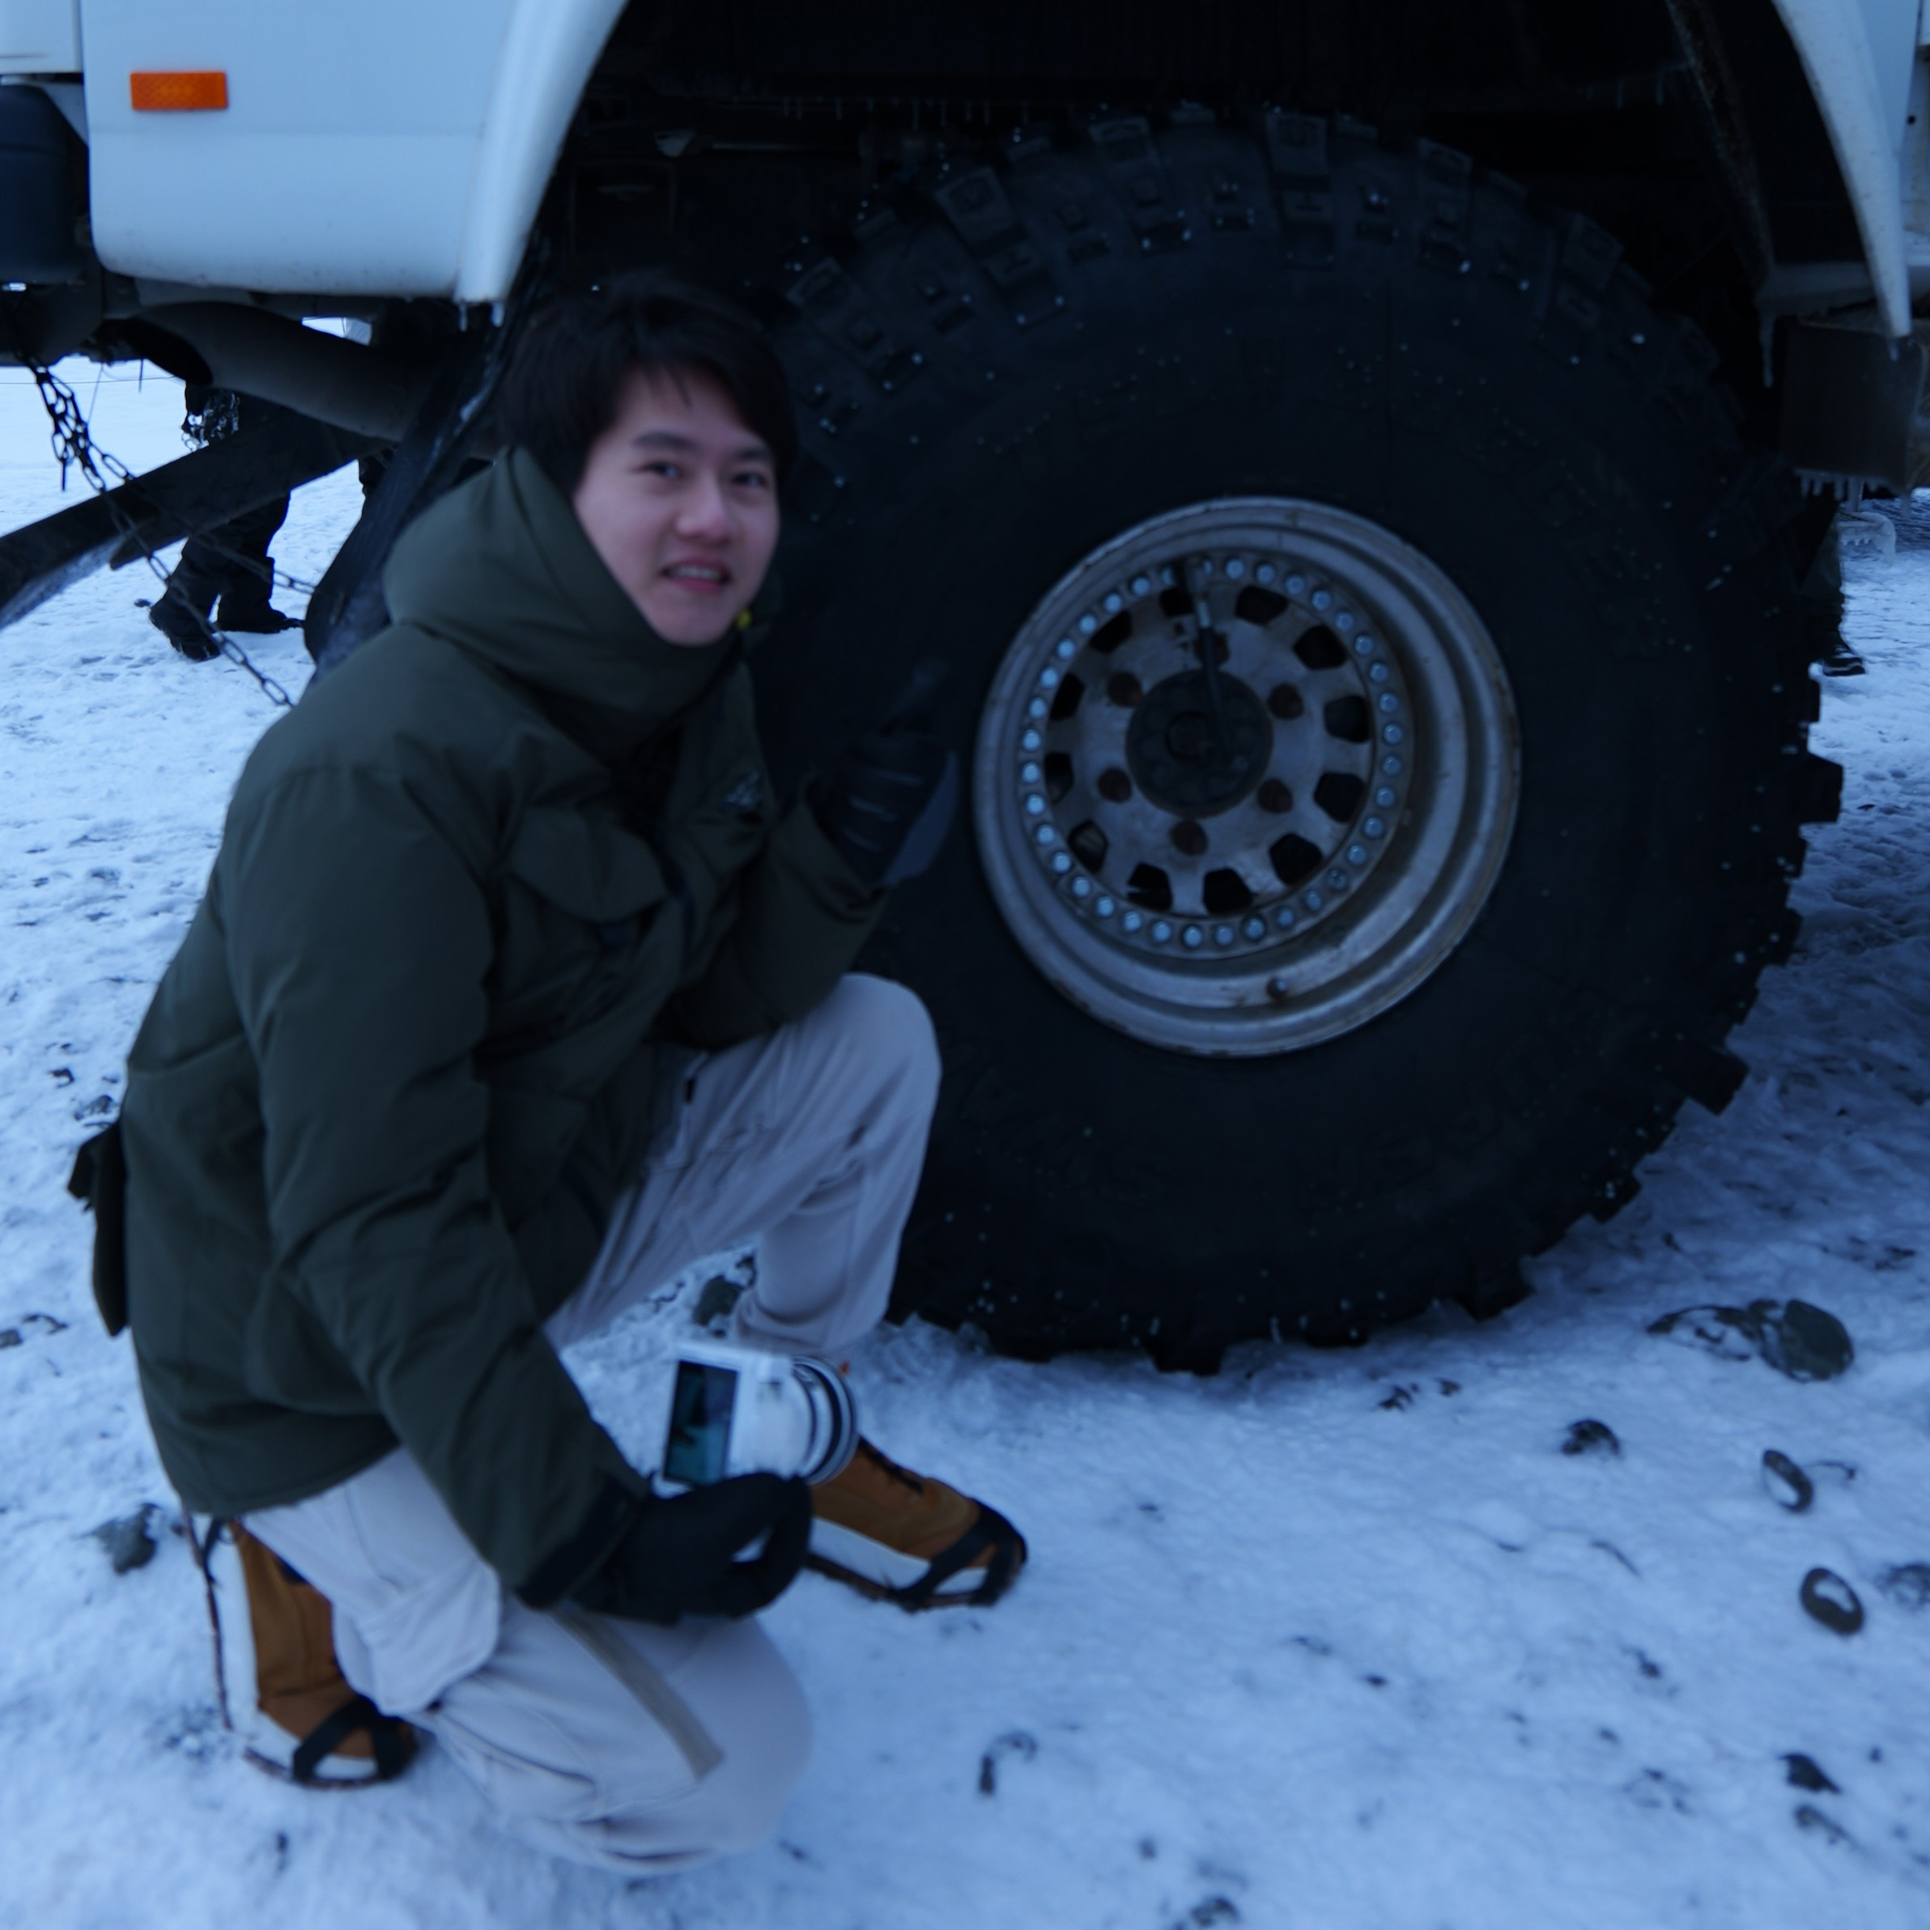
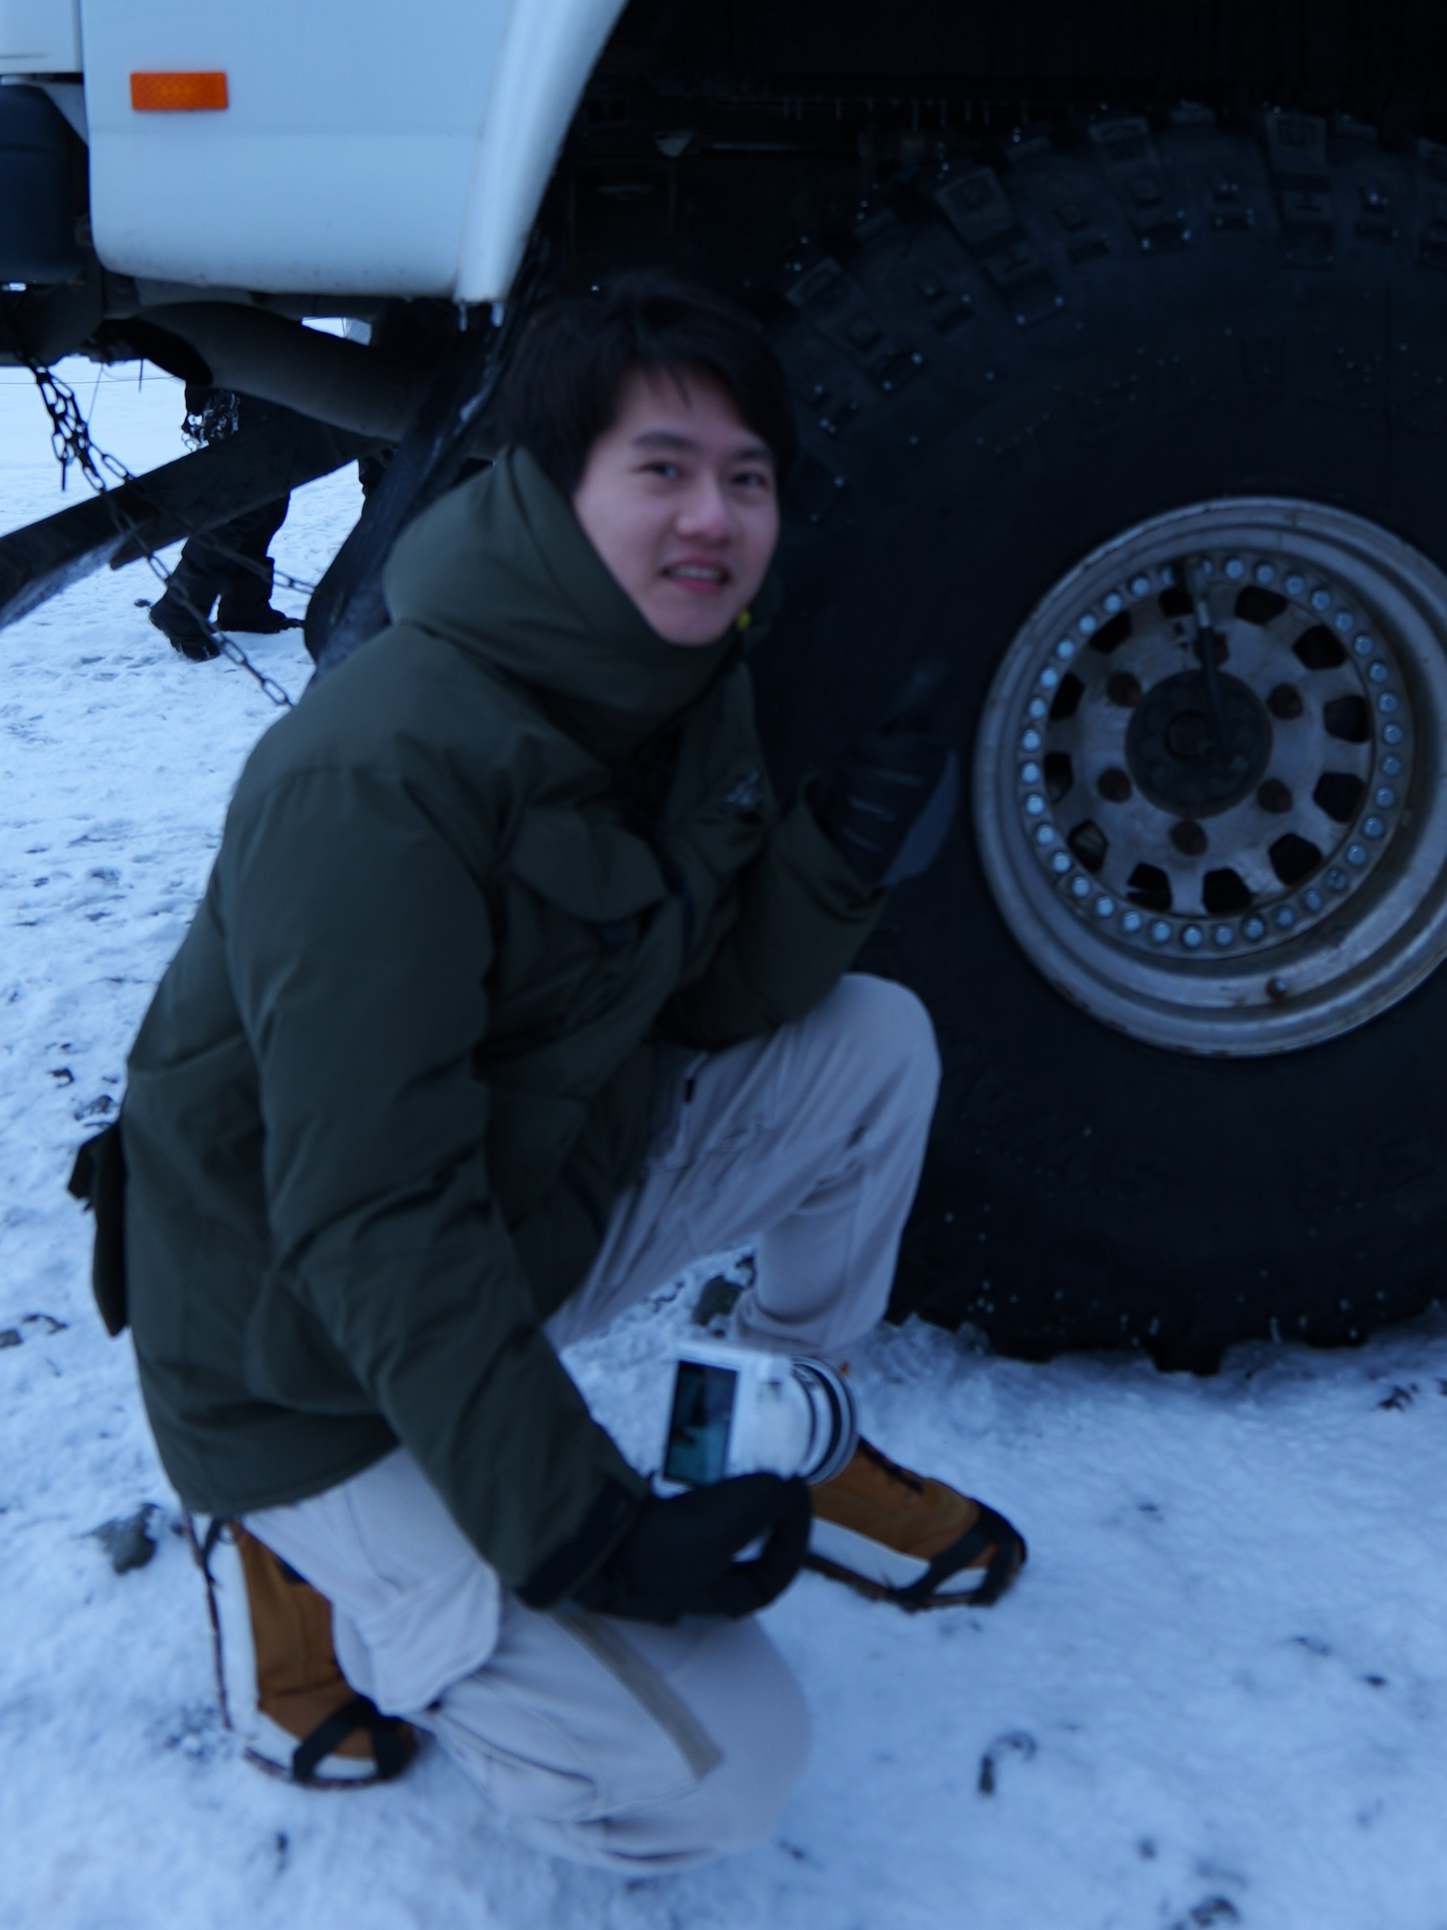
basically finished

diff --git a/index.html b/index.html
@@ -14,16 +14,18 @@
     <img src="contents/photo.jpg" alt="Junyu Fan" />
     <div class="profile-info">
       <h1>Junyu Fan</h1>
-      <p class="position">Research Intern &mdash; Shenzhen Institute for Quantum Science and Engineering</p>
+      <p class="position">Incoming Ph.D. Student &mdash; Mohamed bin Zayed University of Artificial Intelligence (MBZUAI), Fall 2026</p>
       <p class="bio">
-        I work on quantum error correction, with a focus on holographic quantum codes and tensor network methods.
-        My recent interests include measurement-free QEC schemes and fault-tolerant quantum computation.
-        I received my M.Sc. in Applied Physics (<em>cum laude</em>) from TU Delft and my B.Eng. from Fudan University.
+        I am interested in effective computational paradigms for problems that are intractable yet matter &mdash;
+        whether that means leveraging learning-based methods or quantum mechanics to make the previously impossible feasible.
+        My current research focuses on GFlowNets and hierarchical reinforcement learning.
+        I received my M.Sc. in Applied Physics (<em>cum laude</em>) from TU Delft and my B.Eng. in Nuclear Engineering from Fudan University.
       </p>
       <div class="links">
         <a href="mailto:fzhjerry@gmail.com">Email</a>
         <a href="https://scholar.google.com/citations?user=SS9oXGwAAAAJ" target="_blank">Google Scholar</a>
-        <a href="https://github.com/QML-Group/HQEC" target="_blank">GitHub</a>
+        <a href="https://github.com/FJY08" target="_blank">GitHub</a>
+        <a href="https://www.linkedin.com/in/%E5%B3%BB%E7%91%9C-junyu-fan-%E8%8C%83-82522a164/" target="_blank">LinkedIn</a>
       </div>
     </div>
   </div>
@@ -78,45 +80,26 @@
         <strong>J. Fan</strong>, Z. Jiang, Y. Qian, J. Liu, P. Xu, L. Huang, Z. He, Y. Zou, J. Li, C. Chen, et al.
         <span class="pub-title">Optical lines of Ru<sup>21+</sup> to Ru<sup>24+</sup> ions.</span>
         <span class="pub-venue"><em>Atoms</em>, 10(4):154, 2022.</span>
+        <div class="pub-links">
+          <a href="https://doi.org/10.3390/atoms10040154" target="_blank">Journal</a>
+        </div>
       </li>
       <li>
         Y. Li, Y. Wang, <strong>J. Fan</strong>, R. Si, J. Li, M. Zhang, L. Huang, J. Xiao, Y. Zou, B. Wei, et al.
         <span class="pub-title">Precise wavelength determination of the 4s<sup>2</sup>4p <sup>2</sup>P<sub>3/2</sub>&ndash;<sup>2</sup>P<sub>1/2</sub> transition in Mo<sup>11+</sup> and Ru<sup>13+</sup> ions.</span>
         <span class="pub-venue"><em>Journal of Physics B</em>, 54(23):235001, 2022.</span>
+        <div class="pub-links">
+          <a href="https://doi.org/10.1088/1361-6455/ac43f4" target="_blank">Journal</a>
+        </div>
       </li>
     </ol>
   </section>
 
-  <!-- Research -->
+
+  <!-- Service -->
   <section>
-    <h2>Research Experience</h2>
-
-    <div class="research-item">
-      <div class="meta">
-        <span class="org">Shenzhen Institute for Quantum Science and Engineering</span>
-        <span class="date">Dec. 2024 &ndash; Jun. 2025</span>
-      </div>
-      <div class="role">Research Intern &mdash; Shenzhen, CN</div>
-      <p>Developing a measurement-free quantum error correction scheme exploiting the Fermionic properties of electrons in spin qubit platforms. The feedback problem maps to a four-color linear separability problem on a hypercube.</p>
-    </div>
-
-    <div class="research-item">
-      <div class="meta">
-        <span class="org">QuTech, TU Delft</span>
-        <span class="date">Sep. 2023 &ndash; May 2024</span>
-      </div>
-      <div class="role">Research Intern &mdash; Delft, NL</div>
-      <p>Studied biased noise in holographic quantum error correcting codes. Built the first automated tensor network operator push program; discovered a holographic code achieving a 50% maximum threshold under all pure Pauli errors, exceeding the hashing bound under high bias.</p>
-    </div>
-
-    <div class="research-item">
-      <div class="meta">
-        <span class="org">Fudan University &mdash; Institute of Modern Physics</span>
-        <span class="date">Jan. 2021 &ndash; Mar. 2022</span>
-      </div>
-      <div class="role">Research Assistant &mdash; Shanghai, CN</div>
-      <p>Measured transition spectra of highly charged Ru ions using an Electron Beam Ion Trap (EBIT), achieving wavelength precision of 0.002 nm, contributing to Ru ion clock development and fine-structure constant studies.</p>
-    </div>
+    <h2>Service</h2>
+    <p style="font-size:0.93rem;">Reviewer &mdash; <em>Physical Review A</em>, <em>Physical Review Research</em> (APS); <em>Journal of Physics A</em> (IOP)</p>
   </section>
 
   <!-- Education -->
@@ -129,7 +112,6 @@
         <span class="date">Sept. 2022 &ndash; Sept. 2024</span>
       </div>
       <div class="degree">M.Sc. in Applied Physics &mdash; Delft, NL</div>
-      <div class="note">GPA 8.7/10.0 (Top 5%) &middot; Graduated <em>cum laude</em></div>
     </div>
 
     <div class="edu-item">
@@ -138,16 +120,20 @@
         <span class="date">Sept. 2018 &ndash; June 2022</span>
       </div>
       <div class="degree">B.Eng. in Nuclear Engineering and Technology &mdash; Shanghai, CN</div>
-      <div class="note">GPA 3.49/4.00 (Top 10%, ranked 1st in first three years) &middot; Shanghai Institute of Applied Physics Scholarship 2021</div>
     </div>
+  </section>
 
-    <div class="edu-item">
-      <div class="meta">
-        <span class="school">Yale University</span>
-        <span class="date">Jul. &ndash; Aug. 2019</span>
-      </div>
-      <div class="degree">Exchange Student (Summer Program) &mdash; New Haven, US</div>
-    </div>
+  <!-- Vision -->
+  <section>
+    <h2>Vision</h2>
+    <p style="font-size:0.93rem;">
+      I believe the most worthwhile work turns science fiction into reality &mdash; not for its own sake,
+      but because the things that once seemed impossible tend to be the ones that most improve people's lives.
+      Of course, that requires the efforts of social scientists and everyone else to ensure these technologies
+      genuinely serve human flourishing rather than undermine it.
+      Alongside that, I find myself genuinely curious about why the universe is so unreasonably well-described by
+      mathematics &mdash; and, more specifically, what mathematical structure our universe is isomorphic to.
+    </p>
   </section>
 
 </div>

diff --git a/style.css b/style.css
@@ -36,9 +36,10 @@ a:hover {
 }
 
 .profile img {
-  width: 160px;
-  height: 160px;
+  width: 200px;
+  height: 280px;
   object-fit: cover;
+  object-position: top;
   border-radius: 4px;
   flex-shrink: 0;
 }
